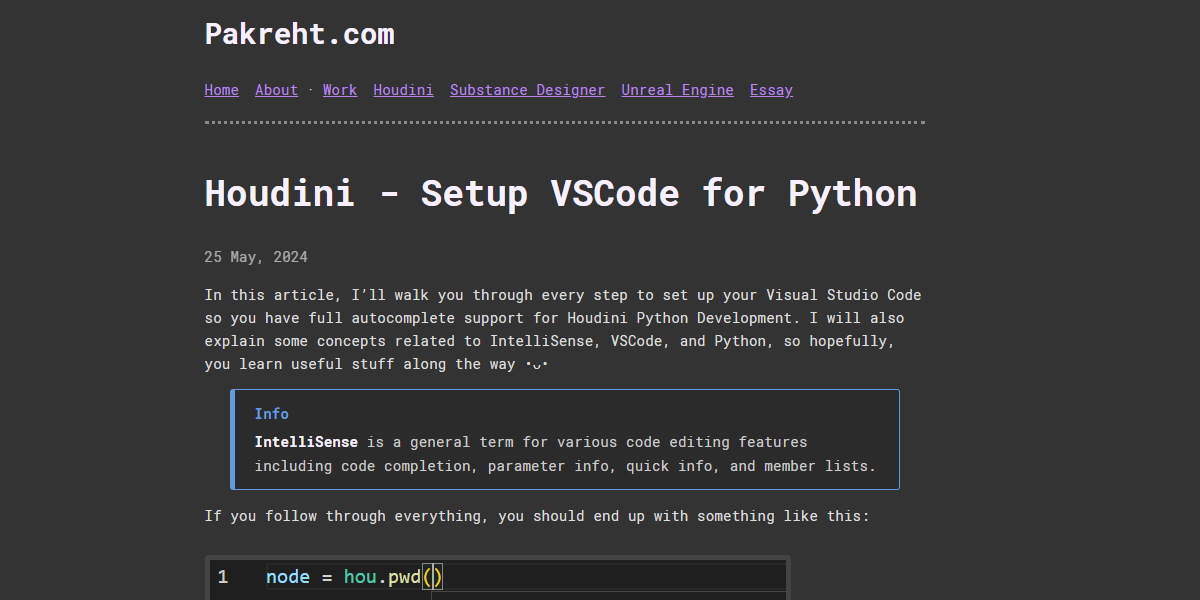
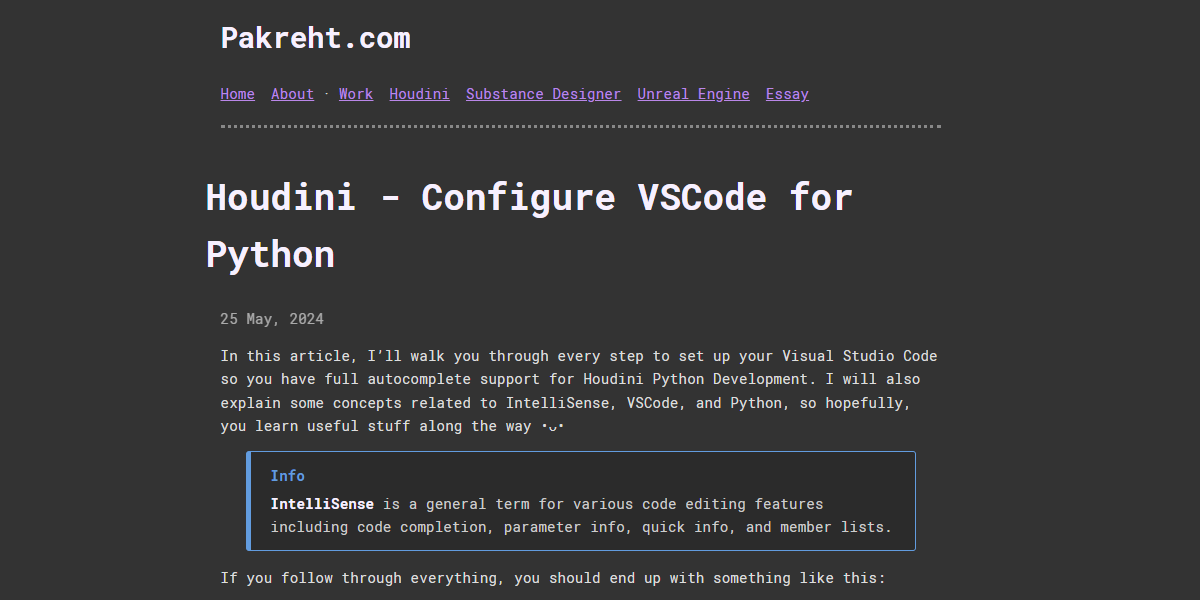
fix typo

diff --git a/themes/tech-blog/assets/css/main.css b/themes/tech-blog/assets/css/main.css
@@ -153,6 +153,7 @@ h6 {
 
 .page-heading {
   margin-top: unset;
+  margin-left: -15px;
 }
 
 

diff --git a/content/post/houdini/vscode-python/index.md b/content/post/houdini/vscode-python/index.md
@@ -1,6 +1,6 @@
 ---
 draft: false
-title: Setup VSCode for Python
+title: Configure VSCode for Python
 category: houdini
 date: 2024-05-25
 houdini/tags:
